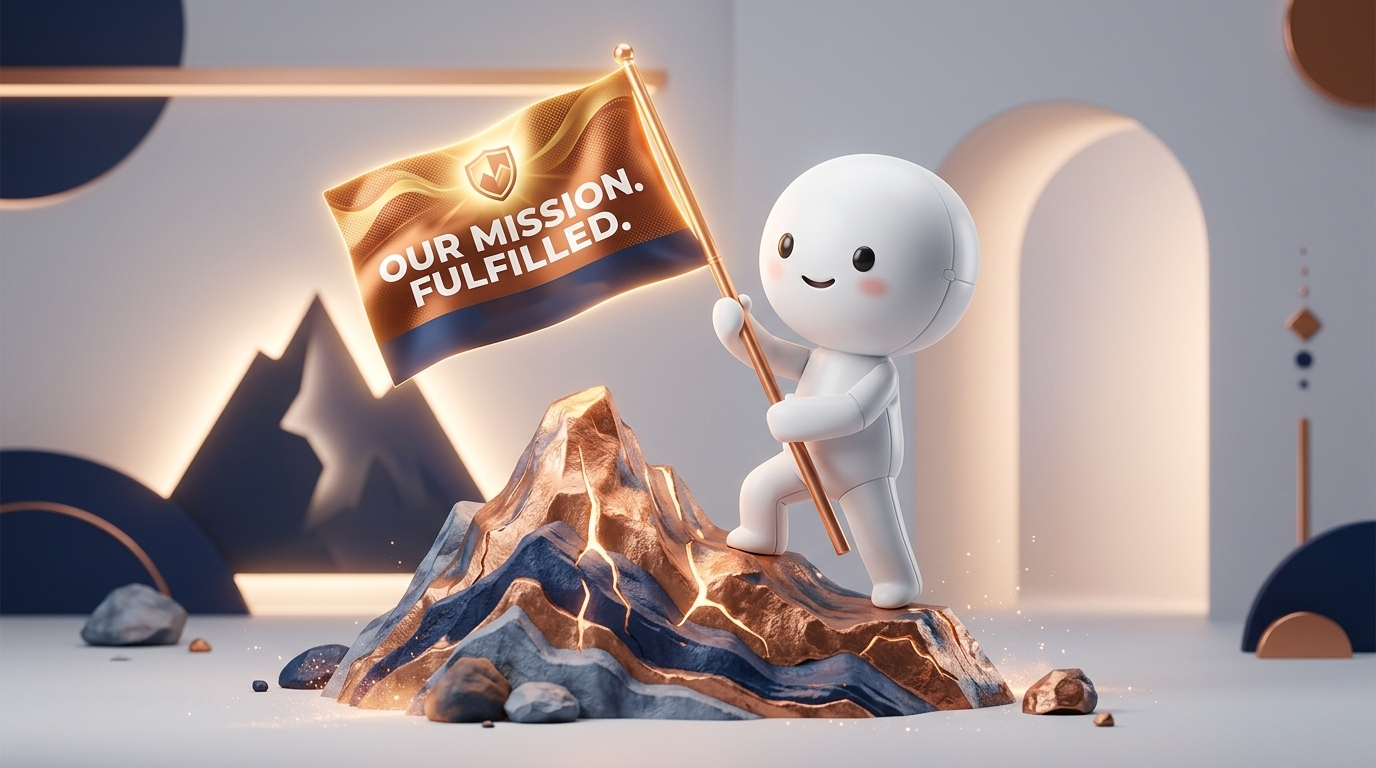
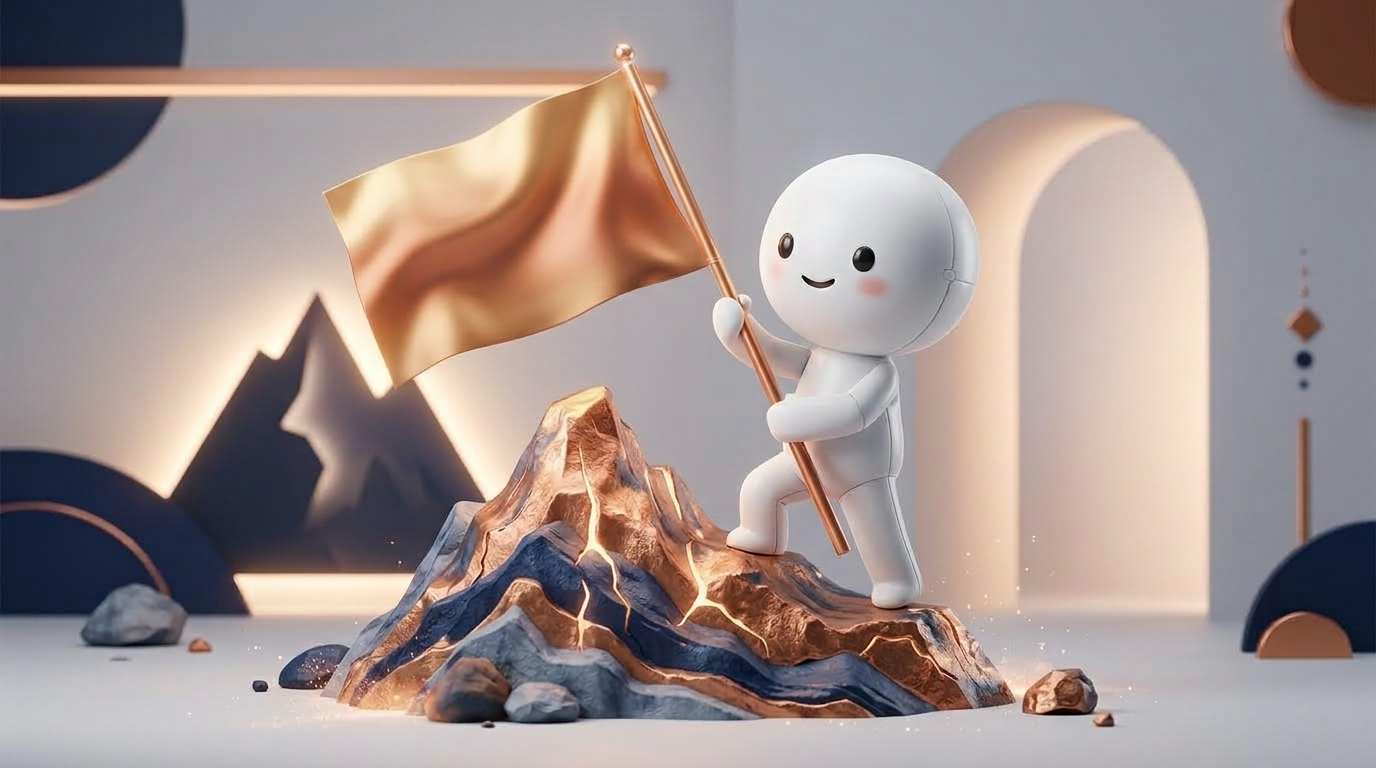
Remove text from mission flag image and improve mobile card overlay contrast

diff --git a/index.html b/index.html
@@ -2389,6 +2389,10 @@
         text-align: left
       }
 
+      .vm-card-full:nth-child(2) .vm-card-overlay {
+        background: linear-gradient(135deg, rgba(13, 26, 36, .88) 0%, rgba(28, 50, 68, .75) 50%, rgba(201, 135, 10, .2) 100%)
+      }
+
       .vm-card-full:nth-child(2) .vm-card-content .eyebrow {
         justify-content: flex-start
       }
